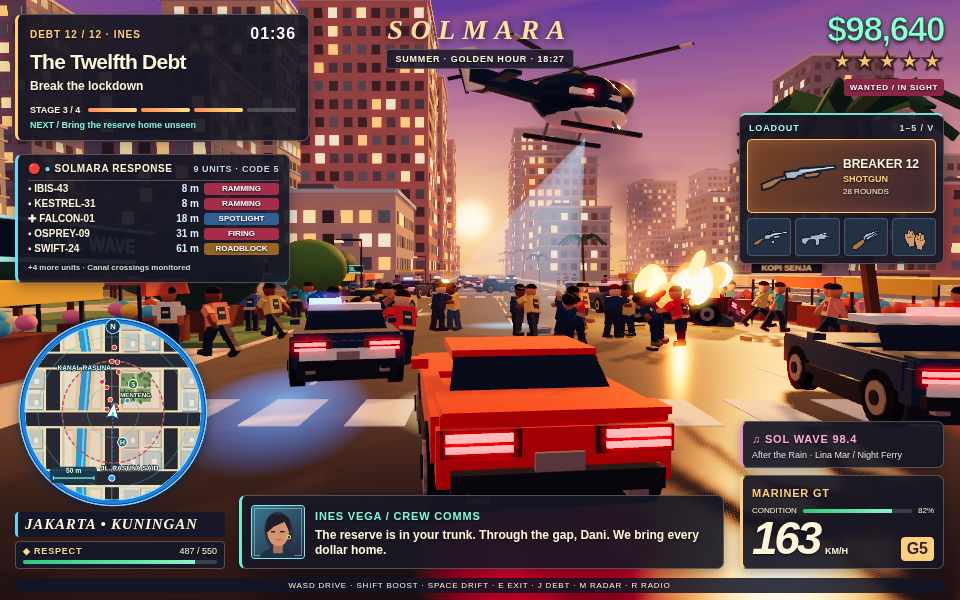
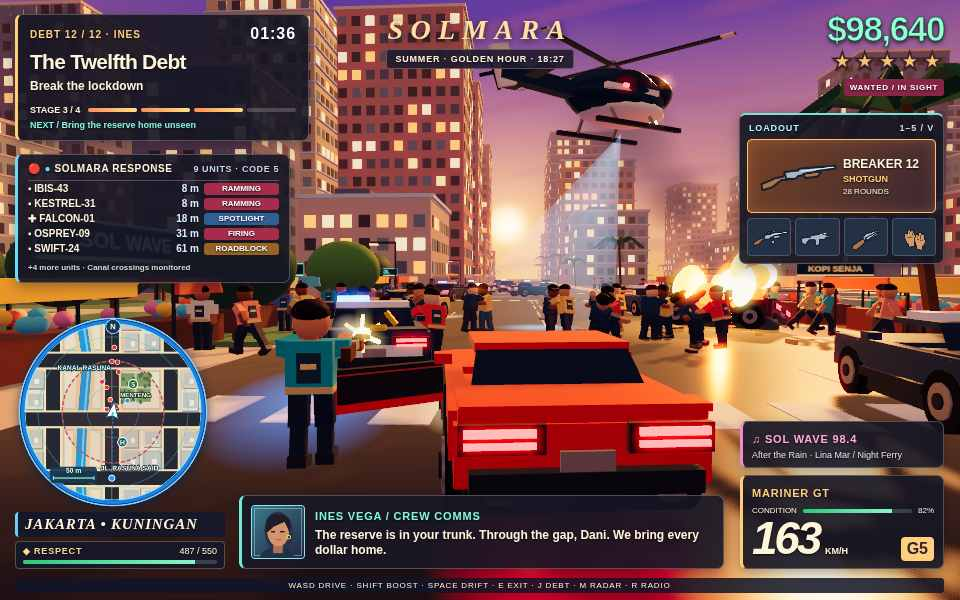
Fix R6 hero: Dani on foot firing at police + README badges

diff --git a/game/src/scenes.js b/game/src/scenes.js
@@ -2,6 +2,7 @@ import {coupe,helicopter,human,pose,syncVehicle} from './actors.js';
 import {addPatrol,addAirSupport,raise} from './pursuit.js';
 import {confrontation,spawnRivals,flash,tickAction} from './action.js';
 import {newJob} from './debts.js';
+import {T,bearing,boxAt,material,model} from './geometry.js';
 
 export const shotNames=['summer','spring','autumn','winter'];
 function prepare(game,index,phase,timer,money,respect){
@@ -19,13 +20,42 @@ function lead(game,v,kmh,hp){
   Object.assign(game.player,{x:v.x,y:v.y,z:v.z,heading:v.heading});
   game.player.mesh.visible=false;syncVehicle(v,game.time);
 }
+function stageSummerExit(game,car,target){
+  // The frozen hero frame retains the chase telemetry and radar anchor.
+  const door=model(car.mesh,1.22,.68,.95);
+  door.rotation.y=-1.05;
+  door.name='Summer driver door';
+  const trim=material(0x25232b,.46);
+  const opening=boxAt(car.mesh,trim,1.238,.945,.03,.035,.52,1.68);
+  boxAt(door,car.coat,0,.24,-.85,.13,.52,1.75);
+  boxAt(door,trim,-.075,.29,-.85,.045,.37,1.58);
+  boxAt(door,trim,0,.52,-.85,.14,.06,1.75);
+  boxAt(door,material(0xc2b1a5,.24),.075,.42,-1.48,.035,.048,.23);
+
+  const dani=human(game.scene,car.x+2.85,car.z-.45,{color:0x39a7a6,armed:true});
+  dani.mesh.name='Summer Dani on foot';
+  dani.heading=bearing(dani,target);
+  pose(dani,game.time);
+  const muzzle=dani.gun.localToWorld(new T.Vector3(0,.062,.655));
+  flash(game,muzzle.x,muzzle.y,muzzle.z,dani.heading);
+  const shells=game.fx.filter(effect=>effect.kind==='shell').slice(-3);
+  for(const [i,shell] of shells.entries()){
+    shell.object.position.copy(dani.gun.localToWorld(new T.Vector3(-.14-i*.16,.11+i*.12,.02-i*.12)));
+    shell.object.scale.multiplyScalar(1.35);
+  }
+  game.scene.onBeforeRender=()=>{
+    const frozen=!game.shotLive&&game.vehicle===car;
+    dani.mesh.visible=door.visible=opening.visible=frozen;
+  };
+}
 export function stageScene(game,name){
   const {scene,player}=game;
   if(name==='summer'){
     prepare(game,11,2,96,98640,487);game.season=1;
-    lead(game,put(game,1.4,9,0xf13428,.13),163,82);
+    const car=put(game,1.4,9,0xf13428,.13);
+    lead(game,car,163,82);
     raise(game,5);
-    addPatrol(game,5.3,16,'RAMMING',.25);
+    const nearestPatrol=addPatrol(game,5.3,16,'RAMMING',.25);
     addPatrol(game,-6.2,12.2,'RAMMING',-.10);
     addAirSupport(game,-2.0,8.5,24).heading=-1.02;
     addPatrol(game,-6.3,39,'FIRING',.21);
@@ -37,6 +67,7 @@ export function stageScene(game,name){
     confrontation(game,21);
     put(game,7.4,33,0xe8c975,-.35);
     put(game,-6.3,51,0xf5c070,.05);
+    stageSummerExit(game,car,nearestPatrol);
   }else if(name==='spring'){
     prepare(game,2,1,134,12450,180);game.season=0;
     Object.assign(player,{x:-1.2,z:2.3,heading:0,mode:'aim',armed:true});game.cover=true;
@@ -77,7 +108,7 @@ export function stageScene(game,name){
 export function shotCamera(game){
   const {player:p,camera:c,shot}=game;
   if(shot==='summer'){
-    c.fov=54;c.position.set(p.x+.45,2.8,p.z-8);c.lookAt(p.x+.45,1.6,p.z+16);
+    c.fov=54;c.position.set(p.x+.32,2.6,p.z-7.6);c.lookAt(p.x+1.75,1.63,p.z+16);
   }else if(shot==='spring'){
     c.fov=53;c.position.set(p.x-1.45,2.30,p.z-2.65);c.lookAt(p.x+4,1.55,p.z+7.2);
   }else if(shot==='autumn'){

diff --git a/README.md b/README.md
@@ -1,5 +1,9 @@
 # Solmara: Twelve Debts
 
+[![make.fun](https://make.fun/badge/gta6-01.svg)](https://make.fun/competitions/gta6-01)
+[![Rank](https://make.fun/badge/gta6-01/RenaldiRenaldi/gta6-01-r6/rank.svg)](https://make.fun/competitions/gta6-01)
+[![Reward](https://make.fun/badge/gta6-01/RenaldiRenaldi/gta6-01-r6/reward.svg)](https://make.fun/competitions/gta6-01)
+
 An offline street adventure about Dani Cruz and the neighborhood reserve.
 
 ## Why R6 beats R5 and #1
